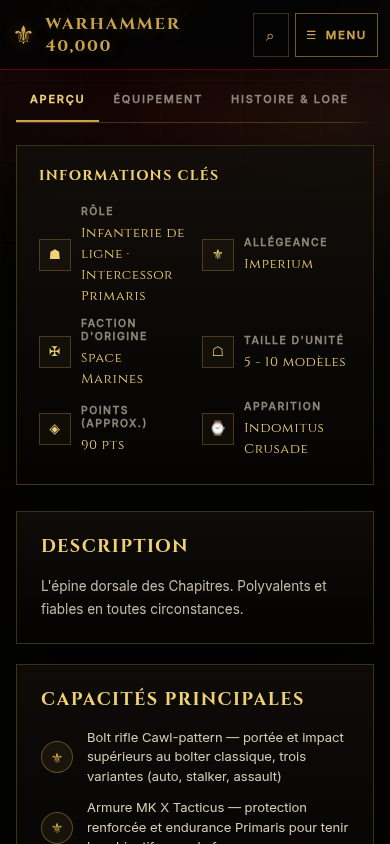
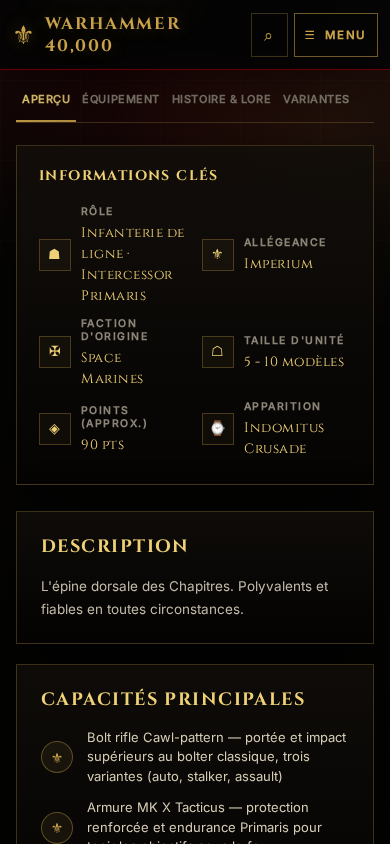
docs(L128): README, Nouveautés et capture alignés sur le comportement réel (onglets à la ligne, plus de bord estompé)

diff --git a/README.md b/README.md
@@ -58,7 +58,7 @@ En amont du code, [ChatGPT](https://chat.openai.com) a aidé à générer les pr
 - **Clavier sur les Factions** : chaque carte de faction (`/factions`) et d'unité (fiche faction) est un vrai lien `<a href>` (Tab, Entrée) ; « Voir toutes les unités » est un `<button>` (Tab, Entrée, Espace)
 - **Accueil au téléphone** (moins de 760 px) : la barre de statistiques et sa citation sont masquées (les nombres sont déjà sur les cartes) ; « N sous-factions » s'affiche en bas de la carte Factions. Au-delà de 760 px, inchangé
 - **Fiche unité, cibles tactiles (L129)** : sous 760 px, « ← Retour aux unités » (14 px de haut jusque-là) et le bouton partager (36 px) mesurent 44 px (`unit-detail.component.scss`). Gardé par `unit-detail-cibles.spec.ts`
-- **Fiche unité sur téléphone (L128)** : sous 760 px, la barre d'onglets défile avec le bord droit estompé (masque + marge de 28 px, onglets de 44 px de haut) et « Informations clés » passe en tête du contenu, sur deux colonnes (la colonne latérale est aplatie par `display: contents`, ses autres blocs restent après le contenu). Gardé par `unit-detail-telephone.spec.ts`
+- **Fiche unité sur téléphone (L128)** : sous 760 px, les quatre onglets tiennent sur une ligne à 390 px (espacement et lettrage resserrés, 44 px de haut) et passent à la ligne sur 360 et 320 px au lieu d'être coupés et « Informations clés » passe en tête du contenu, sur deux colonnes `minmax(0, 1fr)` (aucun défilement latéral à 320 px ; la colonne latérale est aplatie par `display: contents`, ses autres blocs restent après le contenu). Gardé par `unit-detail-telephone.spec.ts`
 - **Fiche unité, retour à la grille (L123)** : « ← Retour aux unités » et « Voir toutes les unités » mènent à `/factions/<id>#units`. La section n'existant qu'après la réponse des unités, `faction-detail.component.ts` appelle `ViewportScroller.scrollToAnchor('units')` une fois les unités rendues (le défilement d'ancre du routeur, émis au `NavigationEnd`, s'arrêtait sur la page encore courte). Gardé par `unit-detail.component.spec.ts` et `faction-detail.component.spec.ts`
 - **Barre des sections des fiches** (faction, primarque, vaisseau, saint, titan, équipement) : collée juste sous l'en-tête (`top` = `--topbar-h`, la hauteur du bandeau du haut, au lieu de passer derrière lui) ; sous 1320 px (où les liens ne tiennent plus toujours sur une ligne) elle tient sur une seule ligne défilante (60 px, 44 px sous 760 px) aux bords estompés, toujours visible ; les colonnes latérales collées des fiches se calent sous elle, et Tab / Maj+Tab ne laissent jamais le focus sous l'en-tête ou la barre (`scroll-padding-top`). Les sections atteintes par un lien de la barre s'arrêtent sous l'en-tête et la barre (`--anchor-offset`), focus compris (WCAG 2.4.11). Gardé par `styles/anchor-nav.spec.ts`
 - **Brèves du 41ᵉ millénaire** : ticker dashboard de 40 entrées atmosphériques (Croisade Indomitus, Cicatrix, Chute de Cadia, Plague Wars, etc.)

diff --git a/docs/nouveautes/2026-10-14-fiche-unite-sur-telephone-onglets-lisibles-infos-cles-remont.md b/docs/nouveautes/2026-10-14-fiche-unite-sur-telephone-onglets-lisibles-infos-cles-remont.md
@@ -3,8 +3,8 @@ title: "Fiche unité sur téléphone : onglets lisibles, infos clés remontées"
 date: 2026-10-14
 created: 2026-10-14T22:17+02:00
 lots: [L128]
-captures: [{ file: captures/L128-fiche-unite-telephone.png, alt: "Fiche de l’Intercessor Primaris à 390 px : barre d’onglets dont le bord droit s’estompe, puis le bloc « Informations clés » sur deux colonnes, avant la Description" }]
+captures: [{ file: captures/L128-fiche-unite-telephone.png, alt: "Fiche de l’Intercessor Primaris à 390 px : les quatre onglets sur une ligne, puis le bloc « Informations clés » sur deux colonnes, avant la Description" }]
 # une capture peut dire ce qu'elle montre : captures: [{ file: captures/x.png, alt: "texte alternatif" }]
 # nocapture: raison, quand une capture n'a pas de sens
 ---
-Sur téléphone, la barre d’onglets de la fiche unité (Aperçu, Équipement, Histoire & Lore, Variantes) n’est plus coupée sans prévenir : son bord droit s’estompe pour montrer qu’elle défile, et chaque onglet mesure 44 px de haut. Le bloc « Informations clés » (rôle, allégeance, faction, taille, points, apparition) apparaît juste sous les onglets, sur deux colonnes, au lieu de se trouver tout en bas de la page.
+Sur téléphone, la barre d’onglets de la fiche unité (Aperçu, Équipement, Histoire & Lore, Variantes) n’est plus coupée : les quatre onglets tiennent sur une ligne et, sur un écran plus étroit, passent à la ligne au lieu d’être cachés ; chaque onglet mesure 44 px de haut. Le bloc « Informations clés » (rôle, allégeance, faction, taille, points, apparition) apparaît juste sous les onglets, sur deux colonnes, au lieu de se trouver tout en bas de la page.
